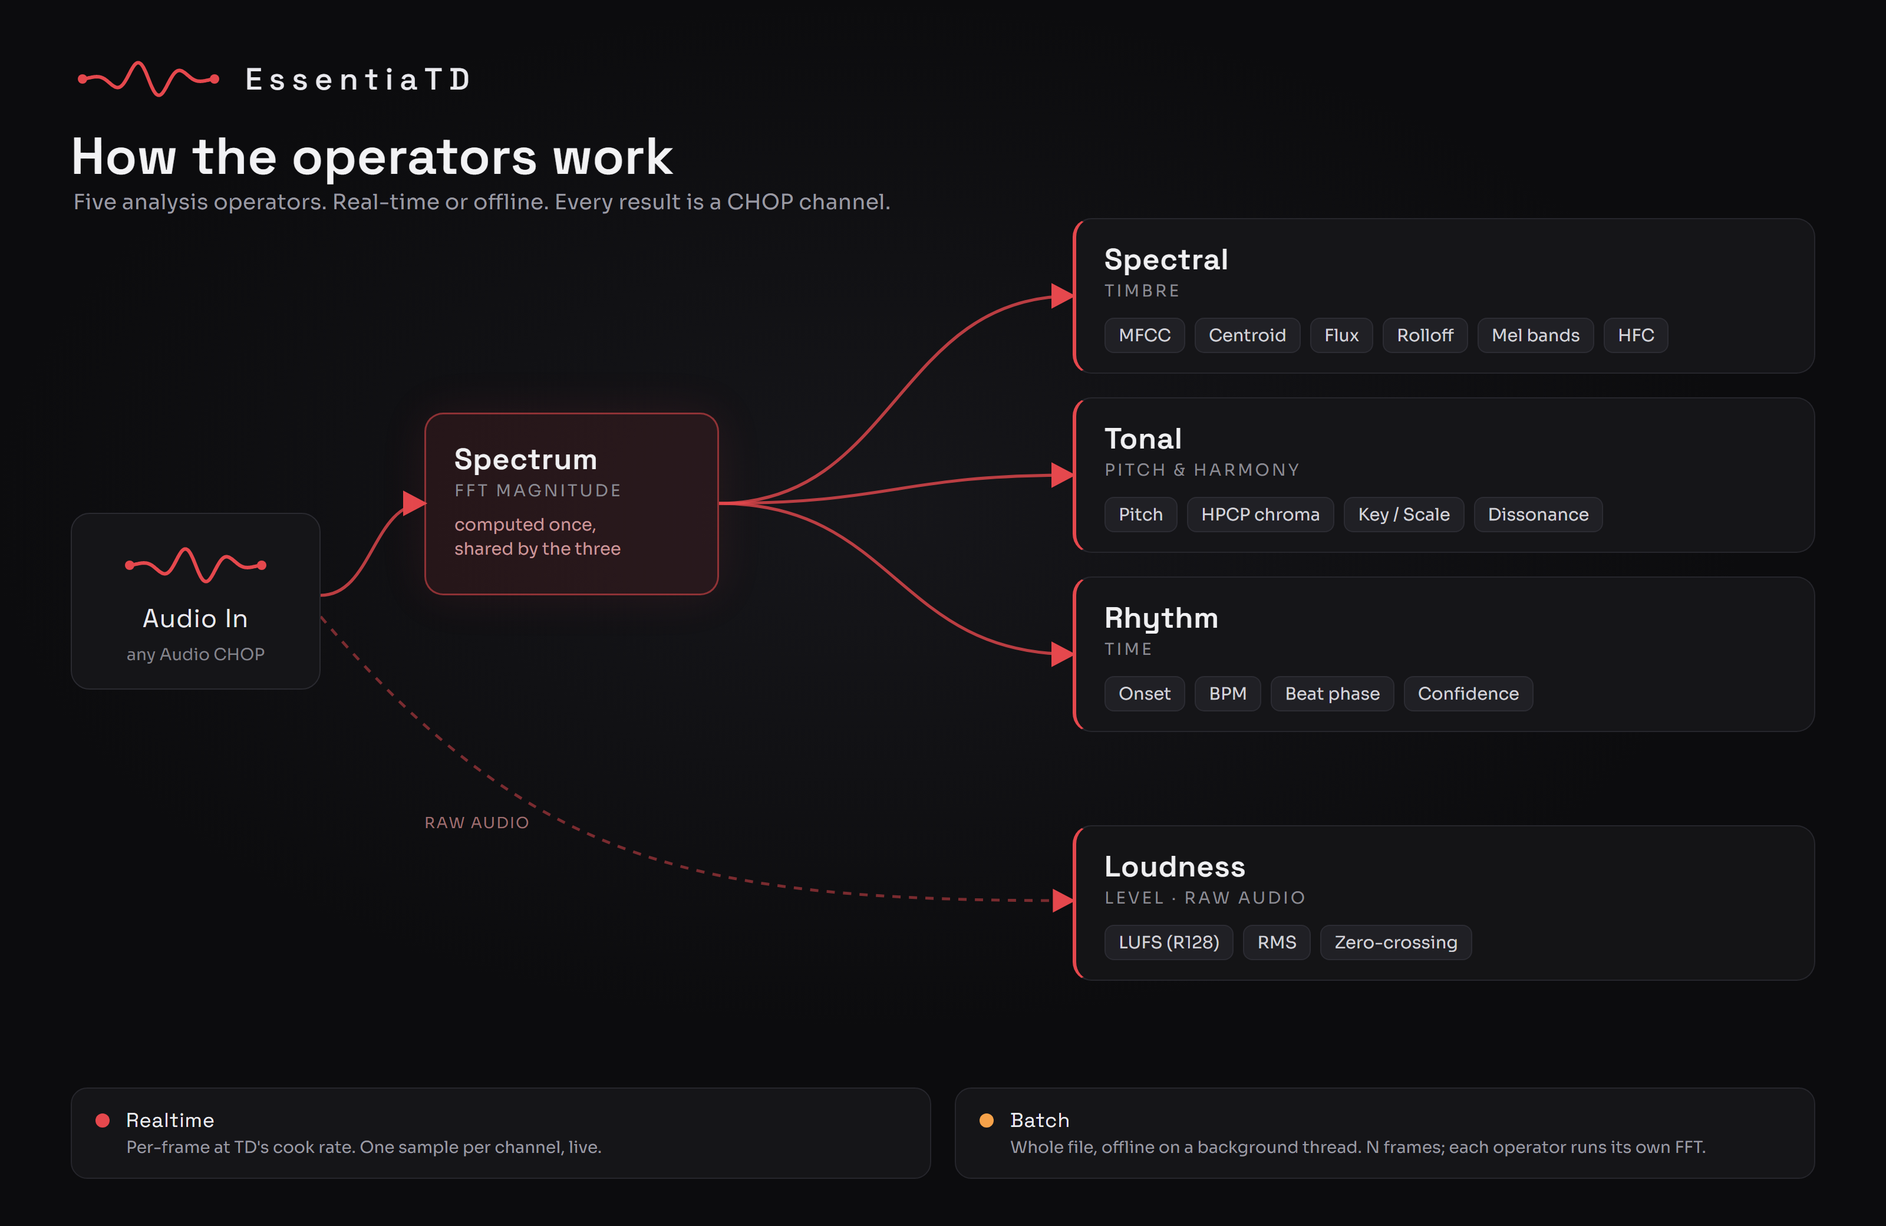
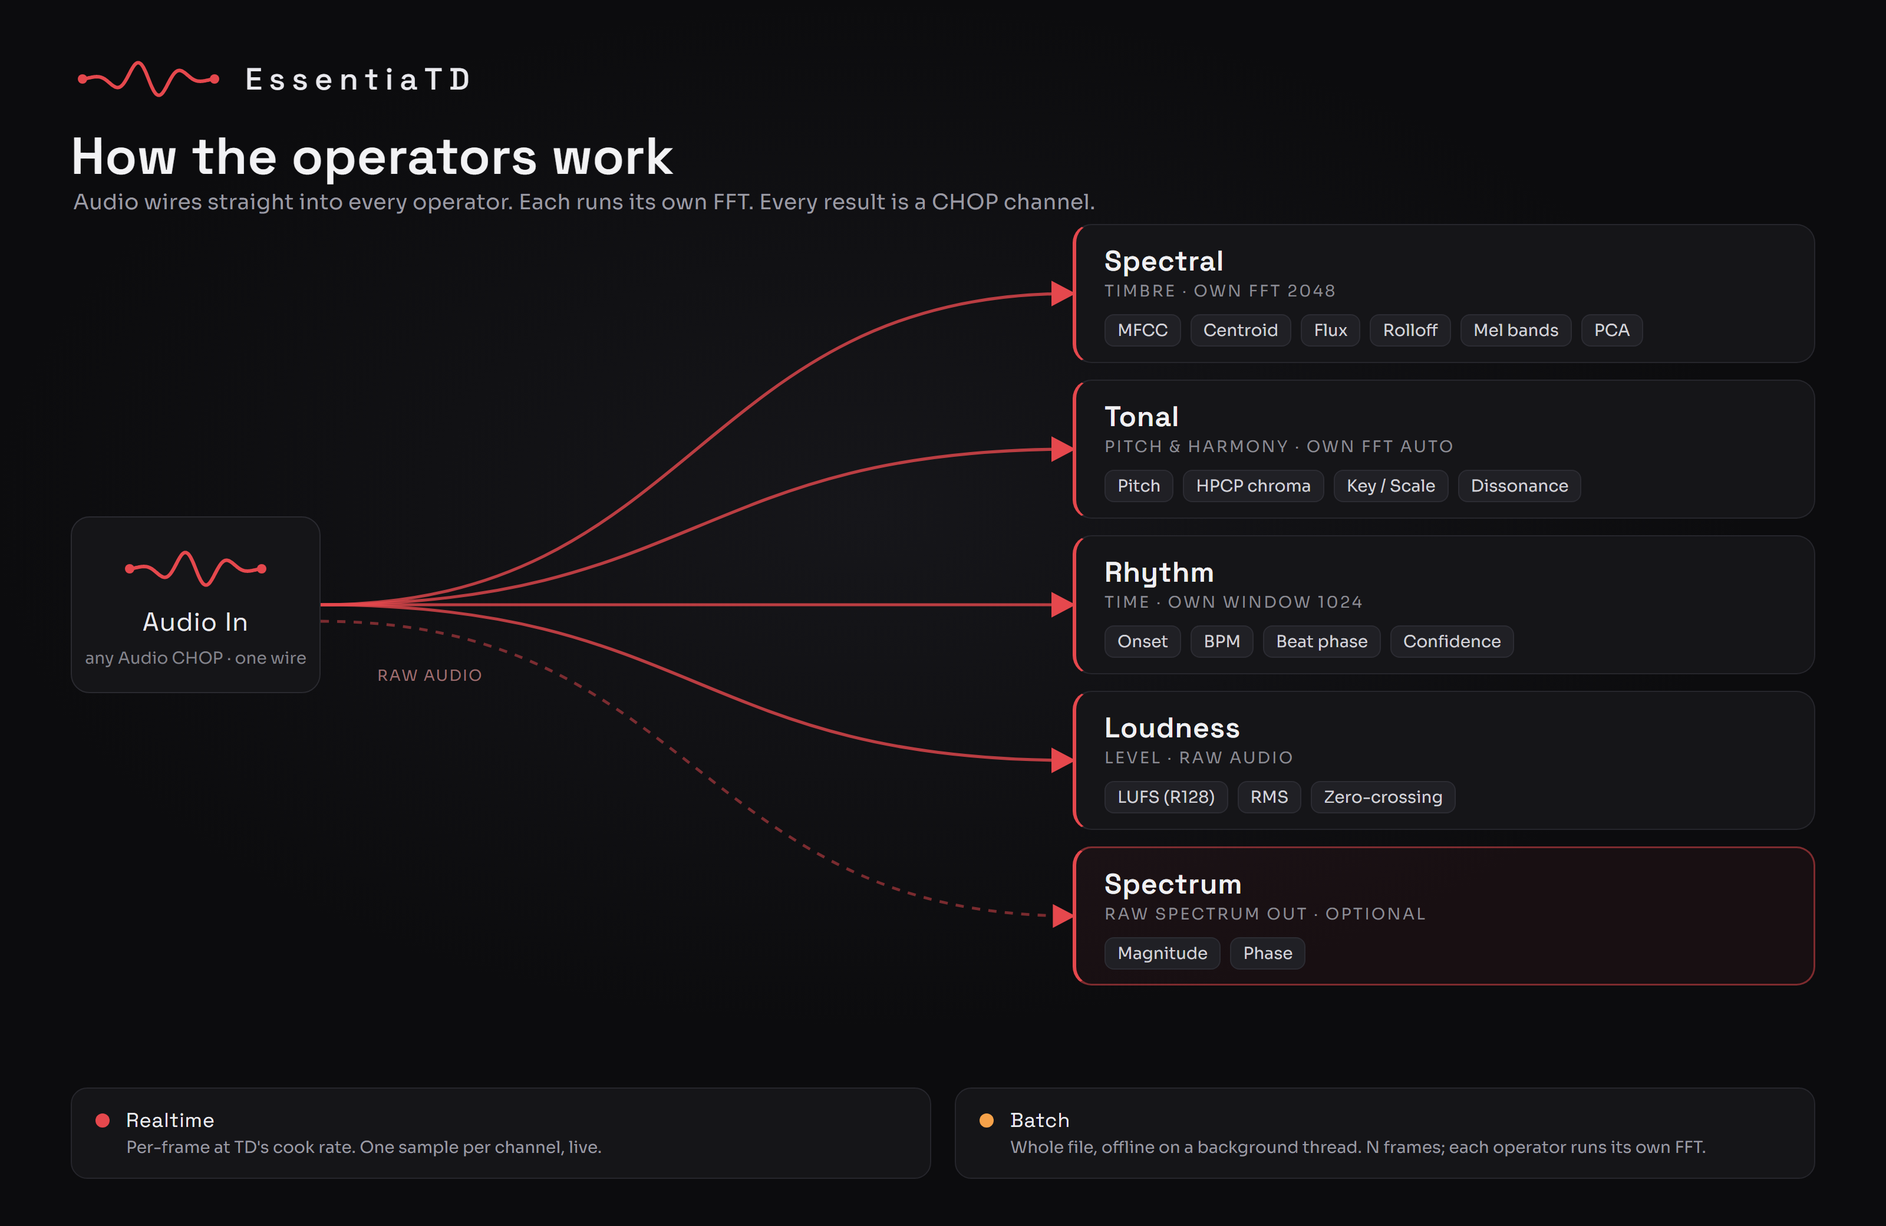
chore(assets): operators diagram to v2.0 topology
The card still showed the v1.x shared-Spectrum hub. Now matches the
shipped architecture: raw audio fans out directly to all four
analyzers (own FFT noted per card), Spectrum shown as the optional
magnitude + phase output. Rendered and visually verified.

diff --git a/assets/diagram/operators-diagram.html b/assets/diagram/operators-diagram.html
@@ -16,24 +16,20 @@ h1 { position:absolute; left:60px; top:104px; font-family:'SG'; font-weight:600;
      font-size:44px; letter-spacing:.005em; color:#f2f2f4; }
 .sub { position:absolute; left:62px; top:160px; font-size:18px; color:#9a9aa2; letter-spacing:.01em; }
 svg.wires { position:absolute; inset:0; z-index:1; }
-.audio,.hub,.card { position:absolute; z-index:2; border-radius:16px; }
+.audio,.card { position:absolute; z-index:2; border-radius:16px; }
 .audio { width:212px; height:150px; background:#151518; border:1px solid #2a2a30;
   display:flex; flex-direction:column; align-items:center; justify-content:center; gap:8px; }
 .audio .an { font-family:'SG'; font-size:22px; letter-spacing:.03em; color:#e9e9ee; }
 .audio .asub { font-size:14px; color:#83838b; }
-.hub { width:250px; height:155px; background:rgba(229,72,77,.10);
-  border:1.5px solid rgba(229,72,77,.55); padding:22px 24px;
-  box-shadow:0 0 40px rgba(229,72,77,.10); }
-.hub .hubsub { margin-top:10px; font-size:14.5px; line-height:1.4; color:#c9979a; }
-.card { width:630px; height:132px; background:#151518; border:1px solid #26262c;
-  border-left:3px solid #e5484d; padding:18px 24px; }
-.card.loud { border-left-color:#e5484d; background:#141416; }
-.cn { font-family:'SG'; font-weight:600; font-size:25px; letter-spacing:.02em; color:#f0f0f2; }
-.ct { font-size:14px; color:#8b8b93; margin-top:2px; text-transform:uppercase; letter-spacing:.14em; }
-.chips { margin-top:14px; display:flex; flex-wrap:wrap; gap:8px; }
-.chip { font-family:'Sora'; font-size:14.5px; color:#d2d2d8; background:#202025;
-  border:1px solid #2c2c33; border-radius:8px; padding:5px 11px; }
-.hub .ct { margin-top:2px; }
+.card { width:630px; height:118px; background:#151518; border:1px solid #26262c;
+  border-left:3px solid #e5484d; padding:15px 24px; }
+.card.spec { border:1.5px solid rgba(229,72,77,.5); border-left:3px solid #e5484d;
+  background:rgba(229,72,77,.06); }
+.cn { font-family:'SG'; font-weight:600; font-size:24px; letter-spacing:.02em; color:#f0f0f2; }
+.ct { font-size:13.5px; color:#8b8b93; margin-top:2px; text-transform:uppercase; letter-spacing:.12em; }
+.chips { margin-top:11px; display:flex; flex-wrap:wrap; gap:8px; }
+.chip { font-family:'Sora'; font-size:14px; color:#d2d2d8; background:#202025;
+  border:1px solid #2c2c33; border-radius:8px; padding:4px 10px; }
 .footer { position:absolute; left:60px; right:60px; bottom:40px; z-index:2;
   display:flex; align-items:center; gap:20px; }
 .mode { flex:1; background:#151518; border:1px solid #26262c; border-radius:14px;
@@ -46,7 +42,7 @@ svg.wires { position:absolute; inset:0; z-index:1; }
 .tag { position:absolute; right:64px; bottom:200px; z-index:2; font-size:15px;
   color:#8f8f97; }
 .tag b { color:#e5484d; font-weight:600; }
-.rawlbl { position:absolute; z-index:2; left:360px; top:690px; font-size:13px;
+.rawlbl { position:absolute; z-index:2; left:320px; top:565px; font-size:13px;
   color:#9c6d6f; letter-spacing:.08em; text-transform:uppercase; }
 </style></head><body>
 <div class="stage">
@@ -60,18 +56,18 @@ svg.wires { position:absolute; inset:0; z-index:1; }
     <span class="name">EssentiaTD</span>
   </div>
   <h1>How the operators work</h1>
-  <div class="sub">Five analysis operators. Real-time or offline. Every result is a CHOP channel.</div>
+  <div class="sub">Audio wires straight into every operator. Each runs its own FFT. Every result is a CHOP channel.</div>
 
   <svg class="wires" viewBox="0 0 1600 1040">
     <defs>
       <marker id="ar" markerWidth="9" markerHeight="9" refX="7" refY="4.2"
         orient="auto"><path d="M0,0 L8,4.2 L0,8.4 z" fill="#e5484d"/></marker>
     </defs>
-    <path d="M 272,505 C 316.0,505 316.0,427 360,427" fill="none" stroke="#e5484d" stroke-width="2.6" stroke-opacity="0.8" marker-end="url(#ar)"/><path d="M 610,427 C 760.0,427 760.0,251 910,251" fill="none" stroke="#e5484d" stroke-width="2.6" stroke-opacity="0.8" marker-end="url(#ar)"/><path d="M 610,427 C 760.0,427 760.0,403 910,403" fill="none" stroke="#e5484d" stroke-width="2.6" stroke-opacity="0.8" marker-end="url(#ar)"/><path d="M 610,427 C 760.0,427 760.0,555 910,555" fill="none" stroke="#e5484d" stroke-width="2.6" stroke-opacity="0.8" marker-end="url(#ar)"/><path d="M 272,523 C 452,735 590,764 910,764" fill="none" stroke="#e5484d" stroke-width="2.4" stroke-opacity="0.5" stroke-dasharray="7 7" marker-end="url(#ar)"/>
+    <path d="M 272,513.0 C 591.0,513.0 591.0,249.0 910,249.0" fill="none" stroke="#e5484d" stroke-width="2.6" stroke-opacity="0.8" marker-end="url(#ar)"/><path d="M 272,513.0 C 591.0,513.0 591.0,381.0 910,381.0" fill="none" stroke="#e5484d" stroke-width="2.6" stroke-opacity="0.8" marker-end="url(#ar)"/><path d="M 272,513.0 C 591.0,513.0 591.0,513.0 910,513.0" fill="none" stroke="#e5484d" stroke-width="2.6" stroke-opacity="0.8" marker-end="url(#ar)"/><path d="M 272,513.0 C 591.0,513.0 591.0,645.0 910,645.0" fill="none" stroke="#e5484d" stroke-width="2.6" stroke-opacity="0.8" marker-end="url(#ar)"/><path d="M 272,527.0 C 591.0,527.0 591.0,777.0 910,777.0" fill="none" stroke="#e5484d" stroke-width="2.4" stroke-opacity="0.5" stroke-dasharray="7 7" marker-end="url(#ar)"/>
   </svg>
 
   <div class="rawlbl">raw audio</div>
-  <div class="audio" style="left:60px;top:435px"><svg width="132" height="46" viewBox="0 0 132 46"><circle cx="10.0" cy="23.0" r="4" fill="#e5484d"/><circle cx="122.0" cy="23.0" r="4" fill="#e5484d"/><path d="M 10.0,23.0 L 10.8,22.9 L 11.6,22.8 L 12.4,22.7 L 13.2,22.5 L 14.0,22.4 L 14.8,22.2 L 15.6,22.0 L 16.4,21.9 L 17.2,21.7 L 18.0,21.5 L 18.8,21.4 L 19.6,21.2 L 20.4,21.1 L 21.2,21.1 L 22.0,21.0 L 22.8,21.1 L 23.6,21.1 L 24.4,21.2 L 25.2,21.4 L 26.0,21.7 L 26.8,22.0 L 27.6,22.4 L 28.4,22.8 L 29.2,23.3 L 30.0,23.9 L 30.8,24.5 L 31.6,25.2 L 32.4,25.9 L 33.2,26.5 L 34.0,27.2 L 34.8,27.9 L 35.6,28.5 L 36.4,29.0 L 37.2,29.5 L 38.0,29.9 L 38.8,30.1 L 39.6,30.2 L 40.4,30.2 L 41.2,30.0 L 42.0,29.6 L 42.8,29.1 L 43.6,28.3 L 44.4,27.5 L 45.2,26.4 L 46.0,25.2 L 46.8,23.9 L 47.6,22.5 L 48.4,21.0 L 49.2,19.5 L 50.0,18.0 L 50.8,16.4 L 51.6,15.0 L 52.4,13.6 L 53.2,12.4 L 54.0,11.3 L 54.8,10.4 L 55.6,9.7 L 56.4,9.3 L 57.2,9.2 L 58.0,9.3 L 58.8,9.7 L 59.6,10.3 L 60.4,11.2 L 61.2,12.4 L 62.0,13.8 L 62.8,15.4 L 63.6,17.1 L 64.4,19.0 L 65.2,21.0 L 66.0,23.0 L 66.8,25.0 L 67.6,27.0 L 68.4,28.9 L 69.2,30.6 L 70.0,32.2 L 70.8,33.6 L 71.6,34.8 L 72.4,35.7 L 73.2,36.3 L 74.0,36.7 L 74.8,36.8 L 75.6,36.7 L 76.4,36.3 L 77.2,35.6 L 78.0,34.7 L 78.8,33.6 L 79.6,32.4 L 80.4,31.0 L 81.2,29.6 L 82.0,28.0 L 82.8,26.5 L 83.6,25.0 L 84.4,23.5 L 85.2,22.1 L 86.0,20.8 L 86.8,19.6 L 87.6,18.5 L 88.4,17.7 L 89.2,16.9 L 90.0,16.4 L 90.8,16.0 L 91.6,15.8 L 92.4,15.8 L 93.2,15.9 L 94.0,16.1 L 94.8,16.5 L 95.6,17.0 L 96.4,17.5 L 97.2,18.1 L 98.0,18.8 L 98.8,19.5 L 99.6,20.1 L 100.4,20.8 L 101.2,21.5 L 102.0,22.1 L 102.8,22.7 L 103.6,23.2 L 104.4,23.6 L 105.2,24.0 L 106.0,24.3 L 106.8,24.6 L 107.6,24.8 L 108.4,24.9 L 109.2,24.9 L 110.0,25.0 L 110.8,24.9 L 111.6,24.9 L 112.4,24.8 L 113.2,24.6 L 114.0,24.5 L 114.8,24.3 L 115.6,24.1 L 116.4,24.0 L 117.2,23.8 L 118.0,23.6 L 118.8,23.5 L 119.6,23.3 L 120.4,23.2 L 121.2,23.1 L 122.0,23.0" fill="none" stroke="#e5484d" stroke-width="3" stroke-linecap="round" stroke-linejoin="round"/></svg><div class="an">Audio In</div><div class="asub">any Audio&nbsp;CHOP</div></div><div class="hub" style="left:360px;top:350px"><div class="cn">Spectrum</div><div class="ct">FFT magnitude</div><div class="hubsub">computed once,<br>shared by the three</div></div><div class="card" style="left:910px;top:185px"><div class="cn">Spectral</div><div class="ct">Timbre</div><div class="chips"><span class="chip">MFCC</span><span class="chip">Centroid</span><span class="chip">Flux</span><span class="chip">Rolloff</span><span class="chip">Mel bands</span><span class="chip">HFC</span></div></div><div class="card" style="left:910px;top:337px"><div class="cn">Tonal</div><div class="ct">Pitch &amp; harmony</div><div class="chips"><span class="chip">Pitch</span><span class="chip">HPCP chroma</span><span class="chip">Key / Scale</span><span class="chip">Dissonance</span></div></div><div class="card" style="left:910px;top:489px"><div class="cn">Rhythm</div><div class="ct">Time</div><div class="chips"><span class="chip">Onset</span><span class="chip">BPM</span><span class="chip">Beat phase</span><span class="chip">Confidence</span></div></div><div class="card loud" style="left:910px;top:700px"><div class="cn">Loudness</div><div class="ct">Level &middot; raw audio</div><div class="chips"><span class="chip">LUFS (R128)</span><span class="chip">RMS</span><span class="chip">Zero-crossing</span></div></div>
+  <div class="audio" style="left:60px;top:438px"><svg width="132" height="46" viewBox="0 0 132 46"><circle cx="10.0" cy="23.0" r="4" fill="#e5484d"/><circle cx="122.0" cy="23.0" r="4" fill="#e5484d"/><path d="M 10.0,23.0 L 10.8,22.9 L 11.6,22.8 L 12.4,22.7 L 13.2,22.5 L 14.0,22.4 L 14.8,22.2 L 15.6,22.0 L 16.4,21.9 L 17.2,21.7 L 18.0,21.5 L 18.8,21.4 L 19.6,21.2 L 20.4,21.1 L 21.2,21.1 L 22.0,21.0 L 22.8,21.1 L 23.6,21.1 L 24.4,21.2 L 25.2,21.4 L 26.0,21.7 L 26.8,22.0 L 27.6,22.4 L 28.4,22.8 L 29.2,23.3 L 30.0,23.9 L 30.8,24.5 L 31.6,25.2 L 32.4,25.9 L 33.2,26.5 L 34.0,27.2 L 34.8,27.9 L 35.6,28.5 L 36.4,29.0 L 37.2,29.5 L 38.0,29.9 L 38.8,30.1 L 39.6,30.2 L 40.4,30.2 L 41.2,30.0 L 42.0,29.6 L 42.8,29.1 L 43.6,28.3 L 44.4,27.5 L 45.2,26.4 L 46.0,25.2 L 46.8,23.9 L 47.6,22.5 L 48.4,21.0 L 49.2,19.5 L 50.0,18.0 L 50.8,16.4 L 51.6,15.0 L 52.4,13.6 L 53.2,12.4 L 54.0,11.3 L 54.8,10.4 L 55.6,9.7 L 56.4,9.3 L 57.2,9.2 L 58.0,9.3 L 58.8,9.7 L 59.6,10.3 L 60.4,11.2 L 61.2,12.4 L 62.0,13.8 L 62.8,15.4 L 63.6,17.1 L 64.4,19.0 L 65.2,21.0 L 66.0,23.0 L 66.8,25.0 L 67.6,27.0 L 68.4,28.9 L 69.2,30.6 L 70.0,32.2 L 70.8,33.6 L 71.6,34.8 L 72.4,35.7 L 73.2,36.3 L 74.0,36.7 L 74.8,36.8 L 75.6,36.7 L 76.4,36.3 L 77.2,35.6 L 78.0,34.7 L 78.8,33.6 L 79.6,32.4 L 80.4,31.0 L 81.2,29.6 L 82.0,28.0 L 82.8,26.5 L 83.6,25.0 L 84.4,23.5 L 85.2,22.1 L 86.0,20.8 L 86.8,19.6 L 87.6,18.5 L 88.4,17.7 L 89.2,16.9 L 90.0,16.4 L 90.8,16.0 L 91.6,15.8 L 92.4,15.8 L 93.2,15.9 L 94.0,16.1 L 94.8,16.5 L 95.6,17.0 L 96.4,17.5 L 97.2,18.1 L 98.0,18.8 L 98.8,19.5 L 99.6,20.1 L 100.4,20.8 L 101.2,21.5 L 102.0,22.1 L 102.8,22.7 L 103.6,23.2 L 104.4,23.6 L 105.2,24.0 L 106.0,24.3 L 106.8,24.6 L 107.6,24.8 L 108.4,24.9 L 109.2,24.9 L 110.0,25.0 L 110.8,24.9 L 111.6,24.9 L 112.4,24.8 L 113.2,24.6 L 114.0,24.5 L 114.8,24.3 L 115.6,24.1 L 116.4,24.0 L 117.2,23.8 L 118.0,23.6 L 118.8,23.5 L 119.6,23.3 L 120.4,23.2 L 121.2,23.1 L 122.0,23.0" fill="none" stroke="#e5484d" stroke-width="3" stroke-linecap="round" stroke-linejoin="round"/></svg><div class="an">Audio In</div><div class="asub">any Audio&nbsp;CHOP &middot; one wire</div></div><div class="card" style="left:910px;top:190px"><div class="cn">Spectral</div><div class="ct">Timbre &middot; own FFT 2048</div><div class="chips"><span class="chip">MFCC</span><span class="chip">Centroid</span><span class="chip">Flux</span><span class="chip">Rolloff</span><span class="chip">Mel bands</span><span class="chip">PCA</span></div></div><div class="card" style="left:910px;top:322px"><div class="cn">Tonal</div><div class="ct">Pitch &amp; harmony &middot; own FFT auto</div><div class="chips"><span class="chip">Pitch</span><span class="chip">HPCP chroma</span><span class="chip">Key / Scale</span><span class="chip">Dissonance</span></div></div><div class="card" style="left:910px;top:454px"><div class="cn">Rhythm</div><div class="ct">Time &middot; own window 1024</div><div class="chips"><span class="chip">Onset</span><span class="chip">BPM</span><span class="chip">Beat phase</span><span class="chip">Confidence</span></div></div><div class="card" style="left:910px;top:586px"><div class="cn">Loudness</div><div class="ct">Level &middot; raw audio</div><div class="chips"><span class="chip">LUFS (R128)</span><span class="chip">RMS</span><span class="chip">Zero-crossing</span></div></div><div class="card spec" style="left:910px;top:718px"><div class="cn">Spectrum</div><div class="ct">Raw spectrum out &middot; optional</div><div class="chips"><span class="chip">Magnitude</span><span class="chip">Phase</span></div></div>
 
   <div class="footer">
     <div class="mode rt"><div class="dot"></div><div>

diff --git a/assets/diagram/build_diagram.py b/assets/diagram/build_diagram.py
@@ -45,21 +45,20 @@ def bez(x1, y1, x2, y2, k=0.45):
 
 
 # ---- fixed layout coordinates (canvas 1600 x 1040) ----
-SPEC = (610, 427)          # spectrum right-center (fan-out origin)
-CARDS = {"spectral": 251, "tonal": 403, "rhythm": 555}   # left-center y at x=910
-AUDIO_R = (272, 505)       # audio right-center
-LOUD_L = (910, 764)
+# v2.0 topology: raw audio fans out DIRECTLY to every analyzer (each runs its
+# own FFT); Essentia Spectrum is a separate optional magnitude+phase output.
+CARD_X = 910
+CARD_H, CARD_GAP, CARD_TOP = 118, 14, 190
+CARD_YS = [CARD_TOP + i * (CARD_H + CARD_GAP) for i in range(5)]   # tops
+CARD_CY = [y + CARD_H / 2 for y in CARD_YS]                        # centers
+AUDIO_R = (272, CARD_CY[2])    # audio right-center, aligned to middle card
 
 connectors = []
-# audio -> spectrum
-connectors.append((bez(AUDIO_R[0], AUDIO_R[1], 360, 427, 0.5), "solid"))
-# spectrum -> three analyzers
-for y in CARDS.values():
-    connectors.append((bez(SPEC[0], SPEC[1], 910, y, 0.5), "solid"))
-# audio -> loudness (raw audio, routed low, dashed)
-connectors.append((
-    f"M {AUDIO_R[0]},{AUDIO_R[1]+18} C {AUDIO_R[0]+180},{AUDIO_R[1]+230} "
-    f"{LOUD_L[0]-320},{LOUD_L[1]} {LOUD_L[0]},{LOUD_L[1]}", "dash"))
+# audio -> four analyzers (solid: this IS the workflow now)
+for cy in CARD_CY[:4]:
+    connectors.append((bez(AUDIO_R[0], AUDIO_R[1], CARD_X, cy, 0.5), "solid"))
+# audio -> spectrum output (dashed: optional)
+connectors.append((bez(AUDIO_R[0], AUDIO_R[1] + 14, CARD_X, CARD_CY[4], 0.5), "dash"))
 
 paths_svg = ""
 for d, kind in connectors:
@@ -82,28 +81,25 @@ def card(x, y, name, tag, chips, cls="card"):
 
 nodes = ""
 # audio node
-nodes += (f'<div class="audio" style="left:60px;top:435px">'
+nodes += (f'<div class="audio" style="left:60px;top:{int(AUDIO_R[1]-75)}px">'
           f'<svg width="{MARK_W}" height="{MARK_H}" viewBox="0 0 {MARK_W} {MARK_H}">'
           f'<circle cx="{mp0[0]}" cy="{mp0[1]}" r="4" fill="#e5484d"/>'
           f'<circle cx="{mp1[0]}" cy="{mp1[1]}" r="4" fill="#e5484d"/>'
           f'<path d="{mark_d}" fill="none" stroke="#e5484d" stroke-width="3" '
           f'stroke-linecap="round" stroke-linejoin="round"/></svg>'
           f'<div class="an">Audio In</div>'
-          f'<div class="asub">any Audio&nbsp;CHOP</div></div>')
-# spectrum hub
-nodes += (f'<div class="hub" style="left:360px;top:350px">'
-          f'<div class="cn">Spectrum</div>'
-          f'<div class="ct">FFT magnitude</div>'
-          f'<div class="hubsub">computed once,<br>shared by the three</div></div>')
-# analyzer cards
-nodes += card(910, 185, "Spectral", "Timbre",
-              ["MFCC", "Centroid", "Flux", "Rolloff", "Mel bands", "HFC"])
-nodes += card(910, 337, "Tonal", "Pitch &amp; harmony",
+          f'<div class="asub">any Audio&nbsp;CHOP &middot; one wire</div></div>')
+# analyzer cards (v2.0: each runs its own FFT on the raw audio)
+nodes += card(CARD_X, CARD_YS[0], "Spectral", "Timbre &middot; own FFT 2048",
+              ["MFCC", "Centroid", "Flux", "Rolloff", "Mel bands", "PCA"])
+nodes += card(CARD_X, CARD_YS[1], "Tonal", "Pitch &amp; harmony &middot; own FFT auto",
               ["Pitch", "HPCP chroma", "Key / Scale", "Dissonance"])
-nodes += card(910, 489, "Rhythm", "Time",
+nodes += card(CARD_X, CARD_YS[2], "Rhythm", "Time &middot; own window 1024",
               ["Onset", "BPM", "Beat phase", "Confidence"])
-nodes += card(910, 700, "Loudness", "Level &middot; raw audio",
-              ["LUFS (R128)", "RMS", "Zero-crossing"], cls="card loud")
+nodes += card(CARD_X, CARD_YS[3], "Loudness", "Level &middot; raw audio",
+              ["LUFS (R128)", "RMS", "Zero-crossing"])
+nodes += card(CARD_X, CARD_YS[4], "Spectrum", "Raw spectrum out &middot; optional",
+              ["Magnitude", "Phase"], cls="card spec")
 
 html = f"""<!doctype html><html><head><meta charset="utf-8"><style>
 @font-face {{ font-family:'SG'; src:url(data:font/ttf;base64,{SG}) format('truetype'); }}
@@ -123,24 +119,20 @@ h1 {{ position:absolute; left:60px; top:104px; font-family:'SG'; font-weight:600
      font-size:44px; letter-spacing:.005em; color:#f2f2f4; }}
 .sub {{ position:absolute; left:62px; top:160px; font-size:18px; color:#9a9aa2; letter-spacing:.01em; }}
 svg.wires {{ position:absolute; inset:0; z-index:1; }}
-.audio,.hub,.card {{ position:absolute; z-index:2; border-radius:16px; }}
+.audio,.card {{ position:absolute; z-index:2; border-radius:16px; }}
 .audio {{ width:212px; height:150px; background:#151518; border:1px solid #2a2a30;
   display:flex; flex-direction:column; align-items:center; justify-content:center; gap:8px; }}
 .audio .an {{ font-family:'SG'; font-size:22px; letter-spacing:.03em; color:#e9e9ee; }}
 .audio .asub {{ font-size:14px; color:#83838b; }}
-.hub {{ width:250px; height:155px; background:rgba(229,72,77,.10);
-  border:1.5px solid rgba(229,72,77,.55); padding:22px 24px;
-  box-shadow:0 0 40px rgba(229,72,77,.10); }}
-.hub .hubsub {{ margin-top:10px; font-size:14.5px; line-height:1.4; color:#c9979a; }}
-.card {{ width:630px; height:132px; background:#151518; border:1px solid #26262c;
-  border-left:3px solid #e5484d; padding:18px 24px; }}
-.card.loud {{ border-left-color:#e5484d; background:#141416; }}
-.cn {{ font-family:'SG'; font-weight:600; font-size:25px; letter-spacing:.02em; color:#f0f0f2; }}
-.ct {{ font-size:14px; color:#8b8b93; margin-top:2px; text-transform:uppercase; letter-spacing:.14em; }}
-.chips {{ margin-top:14px; display:flex; flex-wrap:wrap; gap:8px; }}
-.chip {{ font-family:'Sora'; font-size:14.5px; color:#d2d2d8; background:#202025;
-  border:1px solid #2c2c33; border-radius:8px; padding:5px 11px; }}
-.hub .ct {{ margin-top:2px; }}
+.card {{ width:630px; height:118px; background:#151518; border:1px solid #26262c;
+  border-left:3px solid #e5484d; padding:15px 24px; }}
+.card.spec {{ border:1.5px solid rgba(229,72,77,.5); border-left:3px solid #e5484d;
+  background:rgba(229,72,77,.06); }}
+.cn {{ font-family:'SG'; font-weight:600; font-size:24px; letter-spacing:.02em; color:#f0f0f2; }}
+.ct {{ font-size:13.5px; color:#8b8b93; margin-top:2px; text-transform:uppercase; letter-spacing:.12em; }}
+.chips {{ margin-top:11px; display:flex; flex-wrap:wrap; gap:8px; }}
+.chip {{ font-family:'Sora'; font-size:14px; color:#d2d2d8; background:#202025;
+  border:1px solid #2c2c33; border-radius:8px; padding:4px 10px; }}
 .footer {{ position:absolute; left:60px; right:60px; bottom:40px; z-index:2;
   display:flex; align-items:center; gap:20px; }}
 .mode {{ flex:1; background:#151518; border:1px solid #26262c; border-radius:14px;
@@ -153,7 +145,7 @@ svg.wires {{ position:absolute; inset:0; z-index:1; }}
 .tag {{ position:absolute; right:64px; bottom:200px; z-index:2; font-size:15px;
   color:#8f8f97; }}
 .tag b {{ color:#e5484d; font-weight:600; }}
-.rawlbl {{ position:absolute; z-index:2; left:360px; top:690px; font-size:13px;
+.rawlbl {{ position:absolute; z-index:2; left:320px; top:{int(AUDIO_R[1])+52}px; font-size:13px;
   color:#9c6d6f; letter-spacing:.08em; text-transform:uppercase; }}
 </style></head><body>
 <div class="stage">
@@ -167,7 +159,7 @@ svg.wires {{ position:absolute; inset:0; z-index:1; }}
     <span class="name">EssentiaTD</span>
   </div>
   <h1>How the operators work</h1>
-  <div class="sub">Five analysis operators. Real-time or offline. Every result is a CHOP channel.</div>
+  <div class="sub">Audio wires straight into every operator. Each runs its own FFT. Every result is a CHOP channel.</div>
 
   <svg class="wires" viewBox="0 0 1600 1040">
     <defs>
